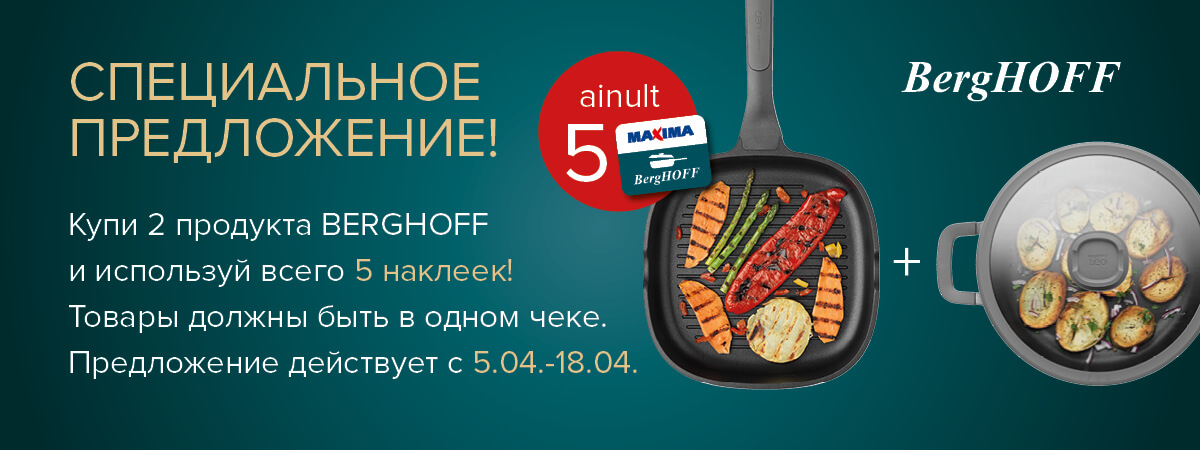
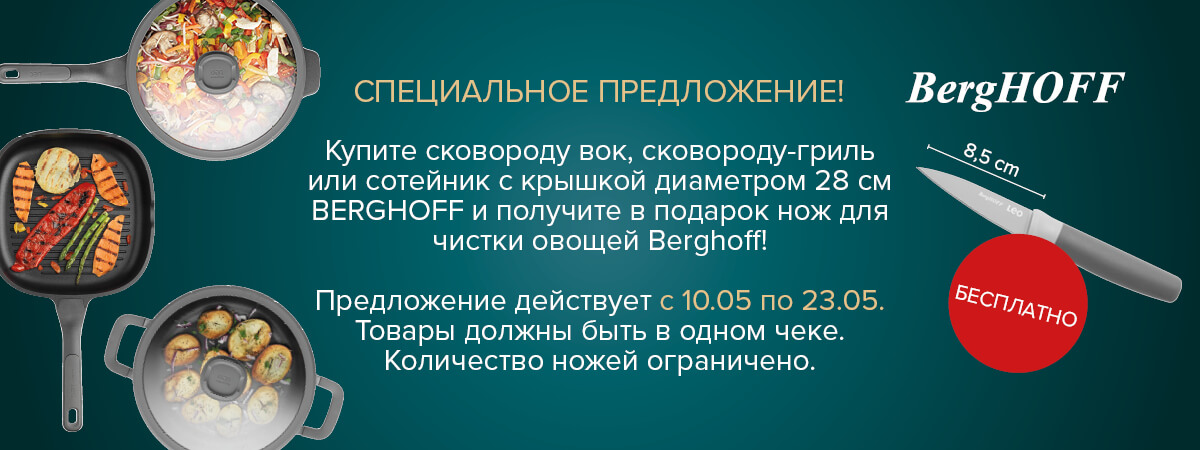
Added promotion

diff --git a/content/ru/special-promotion.md b/content/ru/special-promotion.md
@@ -3,22 +3,22 @@ title: "Special Promotion"
 ---
 
 <div class="rules_container">
-    <!-- <div class="rules_content">
+    <div class="rules_content">
       <img src="images/promotion_ru.jpg" alt="promotion" style="margin-bottom: 1%">
         <div class="tables" style="font-family: none">
-            <table>
-                <thead><th colspan="2">Купи любые 2 товара BergHoff из списка:</th></thead>
+            <table style="width: 100%">
+                <thead><th colspan="2">Список продуктов, которые учувствуют в кампании:</th></thead>
                 <tbody>
                     <tr>
-                        <th>5413821326818</th> <td>Сотейник с крышкой Berghoff 28 см</td>
+                        <th>5413821326818 </th> <td>Сотейник с крышкой Berghoff 28 см</td>
                     </tr>
                     <tr>
-                        <th>5413821326726</th> <td>Кастрюля с крышкой Berghoff 20 см</td>
+                        <th>5413821326849</th> <td>	Сковорода Вок с крышкой Berghoff 28 см</td>
                     </tr>
                     <tr>
-                        <th>5413821326696</th> <td>Сотейник с крышкой Berghoff 18см</td>
+                        <th>5413821326665</th> <td>Сковорода гриль Berghoff 26 см</td>
                     </tr>
-                    <tr>
+                    <!-- <tr>
                         <th>5413821326788</th> <td>Высокая кастрюля с крышкой Berghoff 24см</td>
                     </tr>
                     <tr>
@@ -38,10 +38,10 @@ title: "Special Promotion"
                     </tr>
                     <tr>
                         <th colspan="2">Товары могут быть разными.</th>
-                    </tr>
+                    </tr> -->
                 </tbody>
             </table>
-            <table>
+            <!-- <table>
                 <thead><th colspan="2">И получи бесплатно 1 кухонный аксессуар на выбор:</th></thead>
                 <tbody>
                     <tr>
@@ -54,12 +54,12 @@ title: "Special Promotion"
                         <th>5413821059723</th> <td>Толкушка для картофеля Berghoff</td>
                     </tr>
                 </tbody>
-            </table>
+            </table> -->
         </div>
-    </div> -->
-    <div class="no_promotion">
+    </div>
+    <!-- <div class="no_promotion">
         <p>Спасибо, что ознакомились с нашими рекламными кампаниями.</p>
         <p>Специальной рекламной кампании в данный момент нет.</p>
         <p>Пожалуйста, возвращайтесь в ближайшее время.</p>
-    </div>
+    </div> -->
 </div>

diff --git a/content/et/special-promotion.md b/content/et/special-promotion.md
@@ -3,22 +3,22 @@ title: "Special Promotion"
 ---
 
 <div class="rules_container">
-    <!-- <div class="rules_content">
+    <div class="rules_content">
       <img src="images/promotion_et.jpg" alt="promotion" style="margin-bottom: 1%">
         <div class="tables">
-            <table>
+            <table style="width: 100%">
                 <thead><th colspan="2">Osta sellest valikust 2 BergHoffi toodet:</th></thead>
                 <tbody>
                     <tr>
                         <th>5413821326818</th> <td>Kaanega haudenõu Berghoff 28 cm</td>
                     </tr>
                     <tr>
-                        <th>5413821326726</th> <td>Kaanega haudenõu Berghoff 20 cm</td>
+                        <th>5413821326849</th> <td>Kaanega wok-pann Berghoff 28 cm</td>
                     </tr>
                     <tr>
-                        <th>5413821326696</th> <td>Kaanega kastrul Berghoff 18 cm</td>
+                        <th>5413821326665</th> <td>Grillpann Berghoff 26 cm  </td>
                     </tr>
-                    <tr>
+                    <!-- <tr>
                         <th>5413821326788</th> <td>Kaanega supipott Berghoff 24 cm</td>
                     </tr>
                     <tr>
@@ -38,10 +38,10 @@ title: "Special Promotion"
                     </tr>
                     <tr>
                         <th colspan="2">Tooted võivad olla erinevad.</th>
-                    </tr>
+                    </tr> -->
                 </tbody>
             </table>
-            <table>
+            <!-- <table>
                 <thead><th colspan="2">ja saad sellest valikust 1 BergHoffi köögitarviku tasuta:</th></thead>
                 <tbody>
                     <tr>
@@ -54,12 +54,12 @@ title: "Special Promotion"
                         <th>5413821059723</th> <td>Pudrunui Berghoff</td>
                     </tr>
                 </tbody>
-            </table>
+            </table> -->
         </div>
-    </div> -->
-    <div class="no_promotion">
+    </div>
+    <!-- <div class="no_promotion">
         <p>Täname, et vaatate meie pakkumisi.</p>
         <p>Hetkel eripakkumisi ei ole.</p>
         <p>Külastage meid varsti uuesti!</p>
-    </div>
+    </div> -->
 </div>
